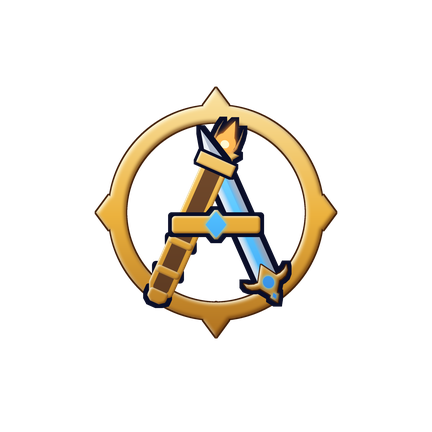
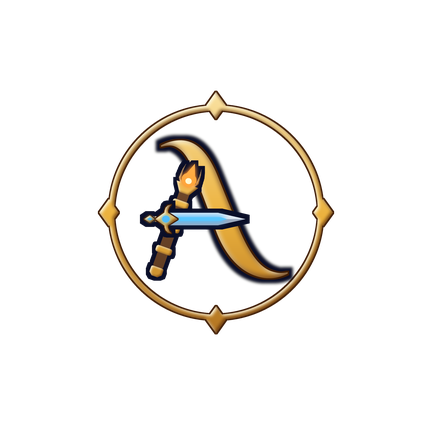
Ícone do app: A artístico da sigla com o cajado na perna fina e a espada como barra (escolha do André)
Claude-Session: https://claude.ai/code/session_01P1kkg4yS7tzqt5xAdBx6SZ

Changed region(s): [[0.2106, 0.1806, 0.7824, 0.7824]]

diff --git a/ferramentas/icone/icone.py b/ferramentas/icone/icone.py
@@ -517,6 +517,63 @@ def opcao_fusao4():
     k.add(gb, GEMA)
     return bg, glow, k.rgba()
 
+def opcao_letra_armas():
+    """v6 (André): mantém o A artístico da sigla (Cinzel Decorative); a perna fina vira o cajado e a barra vira a espada."""
+    bg = fundo_noite(); glow = Image.new("RGB", (S, S)); k = Camada()
+    cx, cy = S * .5, S * .49
+    R = S * .31
+    an = L(); d = ImageDraw.Draw(an)
+    d.ellipse([cx - R, cy - R, cx + R, cy + R], outline=255, width=int(R * .05))
+    for i in range(4):
+        a_ = i * math.pi / 2; x, y = cx + math.cos(a_) * R, cy + math.sin(a_) * R; w = R * .09
+        d.polygon([(x - w, y), (x, y - w * 1.4), (x + w, y), (x, y + w * 1.4)], fill=255)
+    Fn = ImageFont.truetype(os.path.join(AQUI, "CinzelDecorative-Bold.ttf"), int(S * .41))
+    le = L(); dl = ImageDraw.Draw(le)
+    bb = dl.textbbox((0, 0), "A", font=Fn)
+    DX = 17  # centraliza letra + espada no anel (medido no glifo em 1024)
+    dl.text((cx - (bb[0] + bb[2]) / 2 - S * .012 + DX / 1024 * S, cy - (bb[1] + bb[3]) / 2 - S * .005), "A", font=Fn, fill=255)
+    q = lambda x, y: ((x + DX) / 1024 * S, y / 1024 * S)   # coordenadas medidas no glifo em 1024
+    # apaga a perna fina e a barra (o cajado e a espada entram no lugar)
+    apaga = L(); da = ImageDraw.Draw(apaga)
+    top, bot = q(418, 395), q(343, 604)
+    vx, vy = bot[0] - top[0], bot[1] - top[1]; n = math.hypot(vx, vy); px, py = -vy / n, vx / n; w = S * .028
+    da.polygon([(top[0] + px * w, top[1] + py * w), (top[0] - px * w, top[1] - py * w), (bot[0] - px * w, bot[1] - py * w), (bot[0] + px * w, bot[1] + py * w)], fill=255)
+    da.rectangle([*q(282, 590), *q(388, 622)], fill=255)
+    da.rectangle([*q(380, 503), *q(478, 540)], fill=255)
+    le = ImageChops.subtract(le, apaga)
+    glow = somar(glow, gema((cx, cy), R * .55), (80, 55, 12), R * .3, 1.0)
+    glow = somar(glow, ImageChops.lighter(an, le), (130, 80, 15), 30, 1.3)
+    k.add(an, bisel(an, OURO, 9), (64, 30, 6), 7)
+    k.add(le.filter(ImageFilter.MaxFilter(61)).filter(ImageFilter.GaussianBlur(8)), Image.new("RGB", (S, S), (10, 14, 40)))
+    k.add(le, bisel(le, OURO, 14), (64, 30, 6), 9)
+    # cajado na perna fina: chama no alto, logo abaixo da bandeira do A
+    ang = math.degrees(math.atan2(-vx, vy))  # inclinação da perna
+    wc = S * .03; r = S * .03
+    cab = q(416, 402)   # chama mais baixa: céu entre ela e a bandeira
+    pont = S * .025
+    pe = q(312, 690)    # mesma linha de base do pé da perna grossa
+    comp = math.dist(cab, pe) - pont
+    refc = (S / 2, S * .2)
+    cj = cajado(refc[0], refc[1], comp, wc, r, .5, None, None, pont)
+    cj = {nm: transforma(m, refc, -ang, cab) for nm, m in cj.items()}
+    cont = lambda *ms: _uniao(*ms).filter(ImageFilter.MaxFilter(2 * int(F(.012)) + 1))
+    k.add(cont(cj["haste"], cj["ouro"], cj["chama"]), Image.new("RGB", (S, S), (10, 14, 40)))
+    k.add(cj["haste"], gradiente_v((128, 86, 52), (106, 68, 40), (80, 50, 28)))
+    k.add(cj["ouro"], bisel(cj["ouro"], OURO, 6))
+    glow = somar(glow, cj["chama"], (150, 70, 10), 40, 1.6)
+    k.brilho(cj["chama"], (255, 140, 40), 14, 1.3)
+    k.add(cj["chama"], FOGO); k.add(cj["nucleo"], Image.new("RGB", (S, S), (255, 248, 210)))
+    # espada na barra: deitada, ponta para a direita passando a perna grossa, cabo para fora à esquerda
+    Lg = S * .036
+    ref = (S / 2, S * .8)
+    guarda_x, yb = q(350, 521)
+    ponta_x = q(582, 0)[0]
+    lamina = ponta_x - guarda_x
+    e = espada3(ref[0], ref[1] - lamina, ref[1], Lg, 2.2, .6, 1.1, .7)
+    e = {nm: transforma(m, ref, -90, (guarda_x, yb)) for nm, m in e.items()}
+    desenha_espada(k, glow, e)
+    return bg, glow, k.rgba()
+
 def _uniao(*ms):
     u = ms[0]
     for m in ms[1:]: u = ImageChops.lighter(u, m)
@@ -532,7 +589,7 @@ def encolhe(im, vazio):
 silhueta_notificacao().resize((96, 96), Image.LANCZOS).save(f"{OUT}/notificacao_96.png")
 import os as _o
 QUAIS = _o.environ.get("QUAIS", "a-sigilo-espada,a-simples-pequeno,b-sigla-A").split(",")
-for nome, fn in [x for x in [("a-sigilo-espada", opcao_sigilo_v2), ("a-simples-pequeno", lambda: opcao_sigilo_v2(True)), ("b-sigla-A", opcao_sigla), ("d-fusao", opcao_fusao), ("e-fusao4", opcao_fusao4)] if x[0] in QUAIS]:
+for nome, fn in [x for x in [("a-sigilo-espada", opcao_sigilo_v2), ("a-simples-pequeno", lambda: opcao_sigilo_v2(True)), ("b-sigla-A", opcao_sigla), ("d-fusao", opcao_fusao), ("e-fusao4", opcao_fusao4), ("f-letra-armas", opcao_letra_armas)] if x[0] in QUAIS]:
     bg, glow, fr = fn()
     if True:
         bg = ImageChops.add(bg, encolhe(glow, (0, 0, 0))); fr = encolhe(fr, (0, 0, 0, 0))

diff --git a/README.md b/README.md
@@ -107,7 +107,7 @@ O servidor é quem decide: recarga, mana, dano e posição. O cliente só manda 
 | Sons do app Godot: vento do golpe, dash, magia, tiro, explosão, cura, subir de nível e queda do monstro | gerados por ferramentas/sons/gerar.py | CC0 / próprio |
 | Sons das skills no app Godot (godot-prototipo/sons/q_*.ogg): carga das magias, Bola de Fogo, Faísca, Anel de Chamas, Meteoro (queda e impacto), Nova de Gelo, Raio em Cadeia, Salto Arcano, Cura, Escudo, Vórtice, golpe | Quimera (sons/magias.bin do Quimera_Sandbox), cópia em New-Game-Anime-fontes (sons/quimera/); gravações do freesound.org e opengameart.org listadas em godot-prototipo/sons/LICENCAS.md | CC0 |
 | Capa do Aethra no fundo da tela de login do app Godot (godot-prototipo/ui/capa_aethra.jpg) | gerada por IA (AlbedoBase XL, SDXL, pela rede grátis AI Horde) e retocada; título com a fonte Cinzel Decorative (Google Fonts). Arquivos e scripts em /mnt/project-files/aethra-arte/ | próprio (licença CreativeML Open RAIL++-M libera uso comercial da imagem gerada); fonte SIL OFL |
-| Ícone do app Android "Aethra" (godot-prototipo/icone_app/: fundo, frente, monocromático e 192 px) | desenhado por código próprio (ferramentas/icone/icone.py: letra A feita do Cajado A e da Espada A do jogo, no anel dourado da capa; a opção B usa a fonte Cinzel Decorative, Google Fonts) | próprio; fonte SIL OFL |
+| Ícone do app Android "Aethra" (godot-prototipo/icone_app/: fundo, frente, monocromático e 192 px) | desenhado por código próprio (ferramentas/icone/icone.py: A artístico (Cinzel Decorative) com a perna fina virando o Cajado A e a barra virando a Espada A, no anel dourado da capa; a opção B usa a fonte Cinzel Decorative, Google Fonts) | próprio; fonte SIL OFL |
 | Ícones pintados dos itens da mochila (godot-prototipo/icones/itens/: capacete, peitoral, calça e botas em couro e em aço, short, capa, óculos, colar, espada, cajado, poções, tomo, ouro) | gerados por IA (AlbedoBase XL, SDXL, pela rede grátis AI Horde), fundo removido com rembg (isnet, MIT). Originais em /mnt/project-files/armaduras/icones/ | próprio (CreativeML Open RAIL++-M libera uso comercial da imagem gerada) |
 | Armadura que aparece no corpo (capacete aberto com protetor de bochecha, peitoral com gola, ombreiras e braçadeiras, calça ou short com saiote, botas com joelheira, capa) | feitas em código a partir da malha do próprio VRoid (godot-prototipo/armadura.gd, armadura.gdshader, capa.gdshader) | próprio |
 
